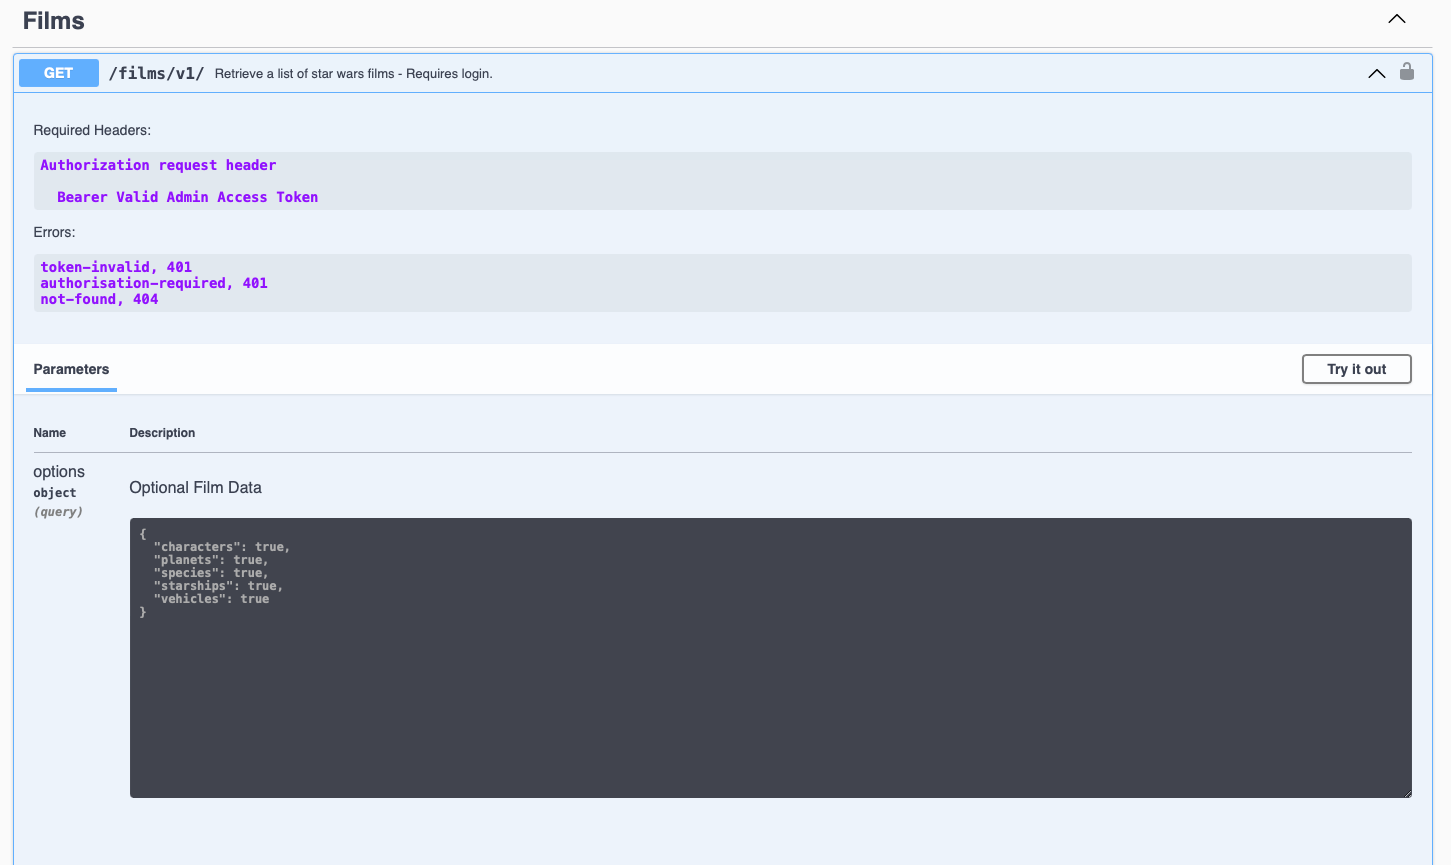
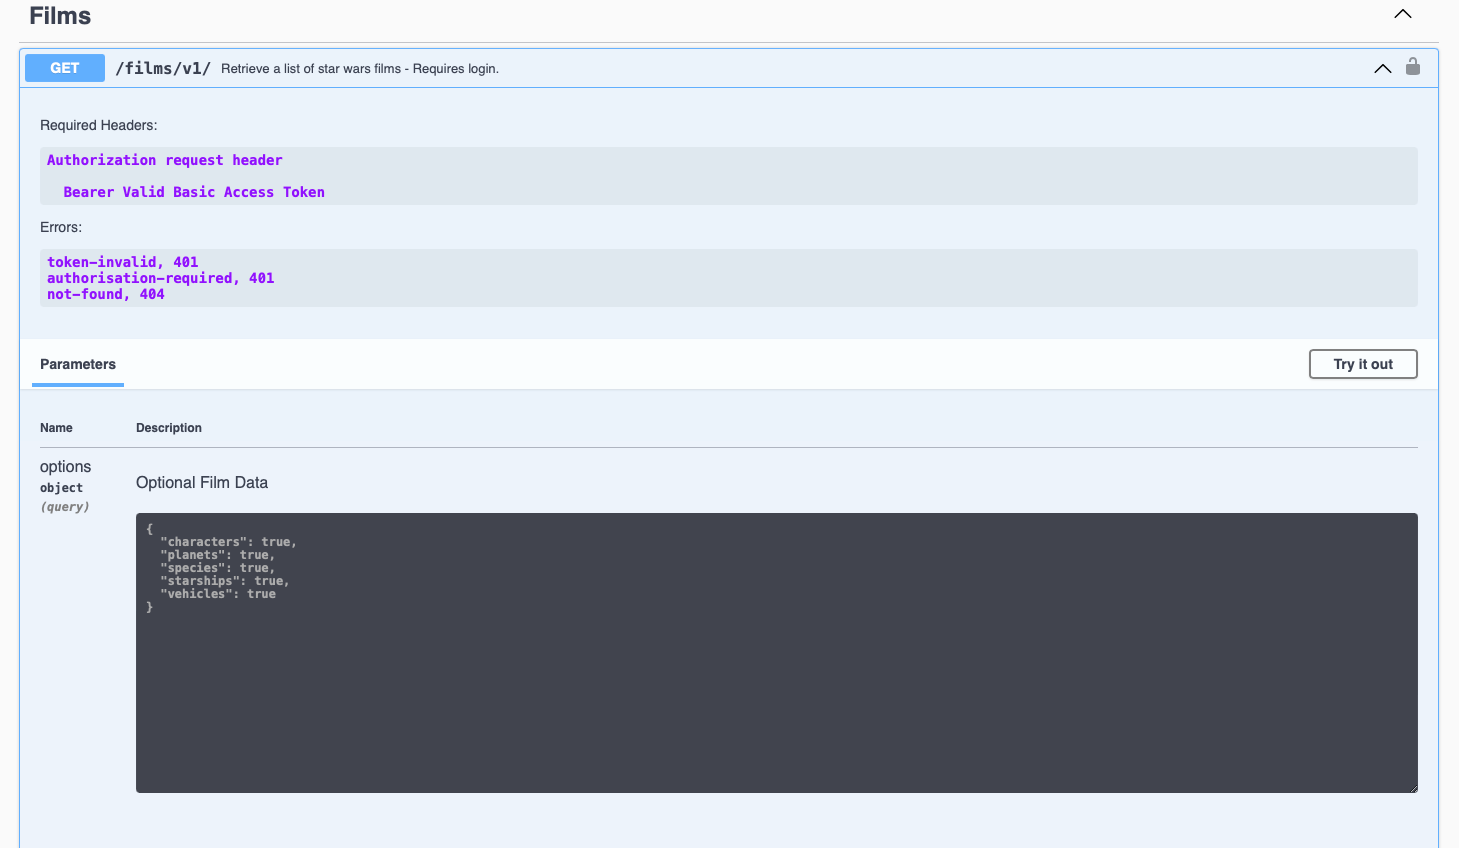
User.md testing and added another exercise, change a couple of details, added some images.

diff --git a/training-docs/stage-5.md b/training-docs/stage-5.md
@@ -276,7 +276,7 @@ securitySchemes:
         Required Headers:
 
           Authorization request header
-            Bearer valid Admin access token
+            Bearer Valid Basic Access token
 
         Errors:
 
@@ -1503,22 +1503,93 @@ create_user_table(connection)
 <details>
 <summary style="color:#4ba9cc">Testing</summary>
 
+    Let's test our user endpoints and see what happens.
+
+    Run the application again and remember to add the '/ui' after the url.
+
+    Scroll dow to the user endpoint s and you should see the following endpoints
+
+![](images/user-endpoints.png)
+
+    Click on the 'signup' endpoint.
+
+![](images/signup-endpoint.png)
+
+    Click on 'Try it out' and enter a valid email address and a password. 
+    Passwords should be between 8 and 32 characters long. Have a least one
+    upper case character and an integer. 
+
+    Leave the 'access_role' as it is 'basic'.
+
+    Click the 'execute' button.
+
+    The response should be a '200' with an empty set of  curly braces '{}'
+
+    If your email is genuine, you should get an email verification email to that address. 
+    When you get it do not click the link yet. First let's attempt to login.
+
+    Click the 'login' endpoint and click 'Try it out' and enter the same credentials you used to signup.
+    The response should be a '400' with the message 'email-unverified'.
+
+    Now click the link in the email, that will call the endpoint 'email_verification'.
+
+    You should now be able to login.
+
+    Click the 'execute' button again. The following response should appear, but obviously with different tokens and email addresses
+
+![](images/login-success.png)
+
+    Copy the tokens to a note or text file somewhere. 
+
+    We are now logged in and have received our access and refresh tokens
+
+    Next go to the 'films' endpoint. Click it and click 'Try it out' and see what happens. 
+    You should recieve a '401' response with a message 'No authorization token provided'
+
+    That is beacuse we have not yet simulated the 'films' endpoint call with a token in the header as a client would.
+    To do that in our API interface we need to add the tokens to it.
+
+    At the top right of the screen you'll see the following button
+
+![](images/auth-button.png)
+
+    Click on that and the following popup will appear. 
+
+![](images/auth-popup.png)
+    
+    Now get your tokens and place them in the relevant inpuyt fields, 
+    without the double quotations '"' marks at either end. 
+
+    Click 'Authorize' for each and close the popup.
+
+    Now re-visit the 'films' endpoint and try again. You should see a '200' response and the 7 
+    Star Wars films data.
+
+    So that's how our user authentication on our endpoints is handled. We login, we get our tokens 
+    and can then call the appropriate endpoints which allow our level of access. Without the tokens,
+    you cannot get access.
+
 </details>
 
 <details>
 <summary style="color:#4ba9cc">Exercise</summary>
 
-    The following three exercises fit nicely into what we have achieved already.
+    The following four exercises fit nicely into what we have achieved already.
 
-#### Exercise 1
+#### Exercise 1.
+
+    Test out all the new user endpoints. Figure out the purpose of the generate_new_tokens endpoint and what to do
+    after you have generated them. Have a good look over everything and then move on to exercise 2.
+
+#### Exercise 2.
 
     Add a resend_verification_email endpoint, including the openAPI Specification, the endpoint and data access code.
 
-#### Exercise 2
+#### Exercise 3.
 
     Add a user delete endpoint, including the openAPI Specification, the endpoint and data access code and a delete function for our database.
 
-#### Exercise 3.
+#### Exercise 4.
 
     Add a user password change endpoint including the openAPI Specification, the endpoint and data access code.
 </details>

diff --git a/training-docs/stage-4.md b/training-docs/stage-4.md
@@ -1145,7 +1145,7 @@ security:
 
             Authorization request header
 
-              Bearer Valid Admin Access Token
+              Bearer Valid Basic Access Token
 
         Errors:
 
